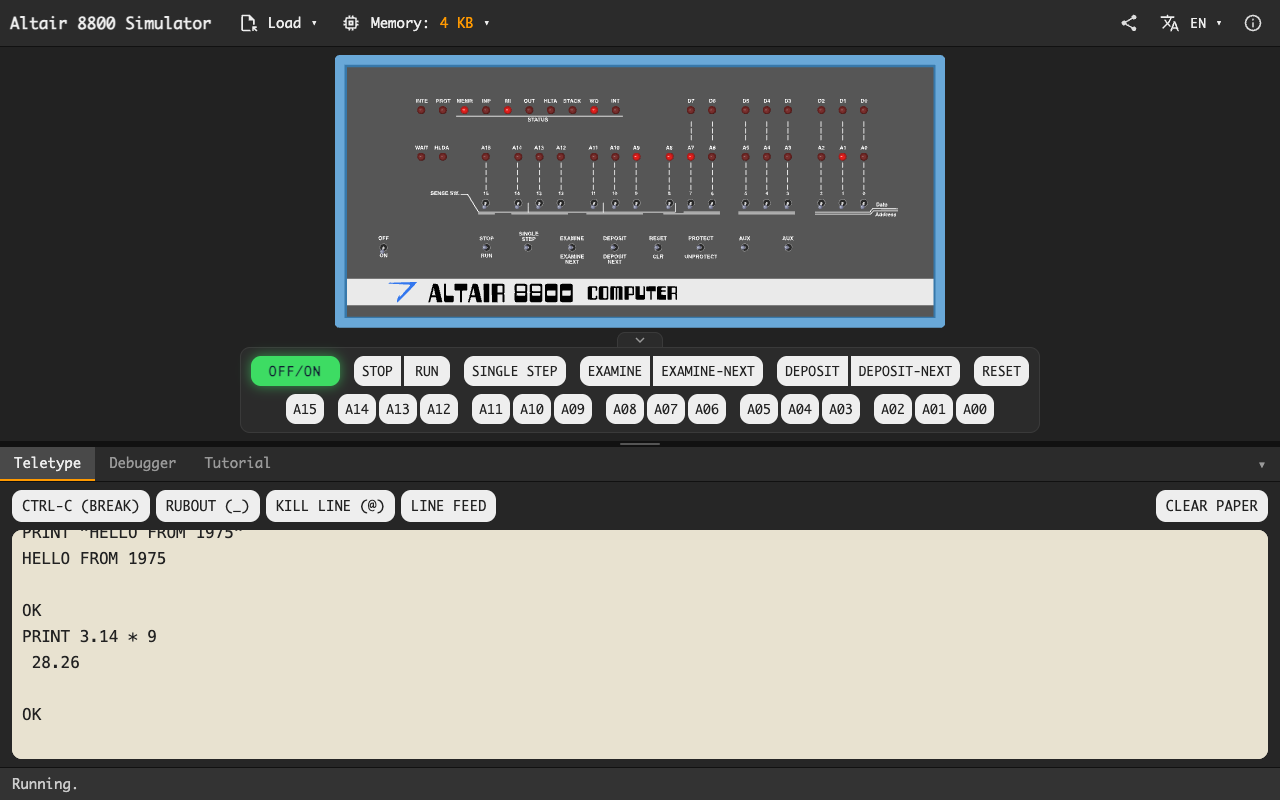
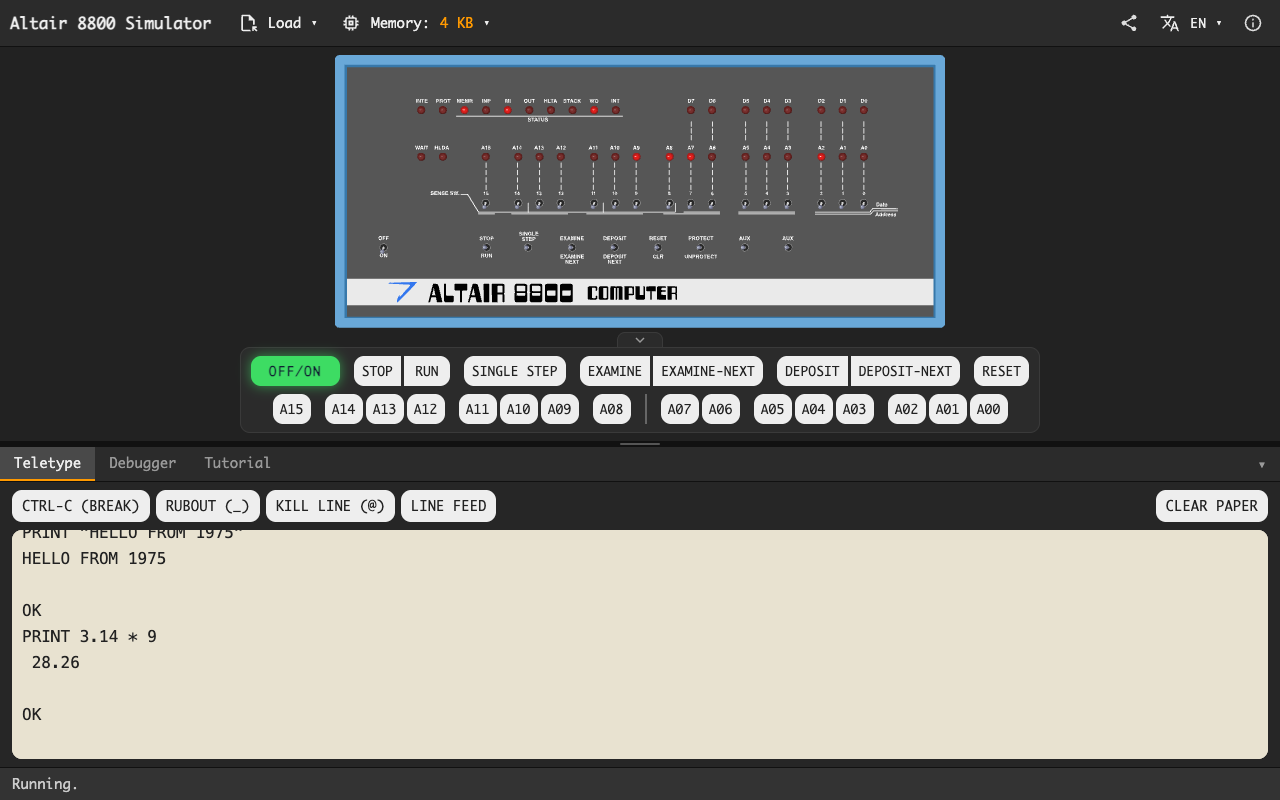
Part the address switches by byte, and give light buttons a hover
- The strip's address switches now part where the panel parts them:
  A08 alone, a line, then A07 and A06. The high and the low byte are so
  often used apart - the sense switches above, a byte to deposit below -
  that A07 wants to be found at a glance. On a phone, eight to a row
  already puts the high byte above the low, and the line is left out.
- Every light button answers the pointer, as the toolbar, the dock and
  the dialogs already did: a shade darker, so that a raised switch's
  orange, a live OFF/ON's green and a greyed button keep their colours.

U4 and its sketch record the parting, and the README's opening
screenshot is retaken with it.

Changed region(s): [[0.1875, 0.4688, 0.8125, 0.5312]]

diff --git a/index.html b/index.html
@@ -94,7 +94,8 @@
         <!-- The Switch Board Helper: the panel's switches again, large
              enough for a thumb, and laid out as the panel lays them out -
              the command switches by lever, the address switches in the
-             octal threes of the silkscreen. Shown unless folded away,
+             octal groups of the silkscreen, parted between the high
+             byte and the low as the panel parts them. Shown unless folded away,
              from the tab on its own top edge. -->
         <div id="switch-strip">
           <div id="strip-tab" class="strip-tab" role="button" tabindex="0"
@@ -114,7 +115,11 @@
               <div class="octal"><div id="s-s15" class="button">A15</div></div>
               <div class="octal"><div id="s-s14" class="button">A14</div><div id="s-s13" class="button">A13</div><div id="s-s12" class="button">A12</div></div>
               <div class="octal"><div id="s-s11" class="button">A11</div><div id="s-s10" class="button">A10</div><div id="s-s9" class="button">A09</div></div>
-              <div class="octal"><div id="s-s8" class="button">A08</div><div id="s-s7" class="button">A07</div><div id="s-s6" class="button">A06</div></div>
+              <div class="octal"><div id="s-s8" class="button">A08</div></div>
+              <!-- The high byte and the low byte, parted as the panel
+                   parts them: A8 alone, a line, then A7 and A6. -->
+              <div class="byte-divider" aria-hidden="true"></div>
+              <div class="octal"><div id="s-s7" class="button">A07</div><div id="s-s6" class="button">A06</div></div>
               <div class="octal"><div id="s-s5" class="button">A05</div><div id="s-s4" class="button">A04</div><div id="s-s3" class="button">A03</div></div>
               <div class="octal"><div id="s-s2" class="button">A02</div><div id="s-s1" class="button">A01</div><div id="s-s0" class="button">A00</div></div>
             </div>

diff --git a/css/style.css b/css/style.css
@@ -621,6 +621,15 @@ a {
     padding: 2px 4px;
 }
 
+/* Between A08 and A07: the line the panel draws between the high byte
+   and the low. */
+.byte-divider {
+    align-self: stretch;
+    background-color: #666;
+    flex: none;
+    width: 2px;
+}
+
 /* A window too narrow for the rows lets them wrap. */
 @media (max-width: 900px) {
     .strip-row {
@@ -921,6 +930,14 @@ a {
     -moz-user-select: none;
     -ms-user-select: none;
     -webkit-user-select: none;
+}
+
+/* Every light button answers the pointer, as the toolbar, the dock and
+   the dialogs do. A shade darker rather than a fixed colour, so that a
+   raised switch's orange, a live OFF/ON's green and a greyed button
+   each keep their own colour under it. */
+.button:hover {
+    filter: brightness(0.88);
 }
 
 /* The hidden attribute has to beat author rules such as .mem-map's
@@ -1241,6 +1258,11 @@ a {
 
     .strip-address .octal {
         display: contents;
+    }
+
+    /* Eight to a row already puts the high byte above the low. */
+    .strip-address .byte-divider {
+        display: none;
     }
 
     .strip-address .button {

diff --git a/docs/ui-design.md b/docs/ui-design.md
@@ -181,7 +181,7 @@ knows how all of them behave.
 │                         FRONT PANEL (the SVG artwork)                                 │
 │                                    [˅]                                                │
 │         [OFF/ON] [STOP|RUN] [SINGLE STEP] [EXAMINE|NEXT] [DEPOSIT|NEXT] [RESET]        │
-│         [A15] [A14 A13 A12] [A11 A10 A09] [A08 A07 A06] [A05 A04 A03] [A02 A01 A00]    │
+│       [A15] [A14 A13 A12] [A11 A10 A09] [A08] │ [A07 A06] [A05 A04 A03] [A02 A01 A00]  │
 ├─────────────────────────────────── ═══ drag ═══ ──────────────────────────────────────┤
 │ Teletype •   Debugger   Tutorial                                                  ▾   │
 │ ┌ 8080 CPU Status Dump ─────────────┐  ┌ Next Instruction ────────────────────────┐   │
@@ -360,8 +360,11 @@ is the familiar sign for folding.
 It is laid out as the panel lays the switches out, so that it reads as
 part of the machine: the command switches by lever in panel order, a
 two-way lever (STOP and RUN, EXAMINE and EXAMINE NEXT) drawn as one
-control with two halves; the address switches in the octal threes of
-the silkscreen. Its rows stay on one line where the window has room,
+control with two halves; the address switches in the octal groups of
+the silkscreen, parted - as the panel parts them, with A8 alone and a
+line before A7 - between the high byte and the low, which programs so
+often use apart: the sense switches above, a byte to deposit below. Its
+rows stay on one line where the window has room,
 so it is always two rows high, and it widens to the panel's artwork;
 on a phone the address switches go eight to a row. It keeps the panel's
 voice (P5).
